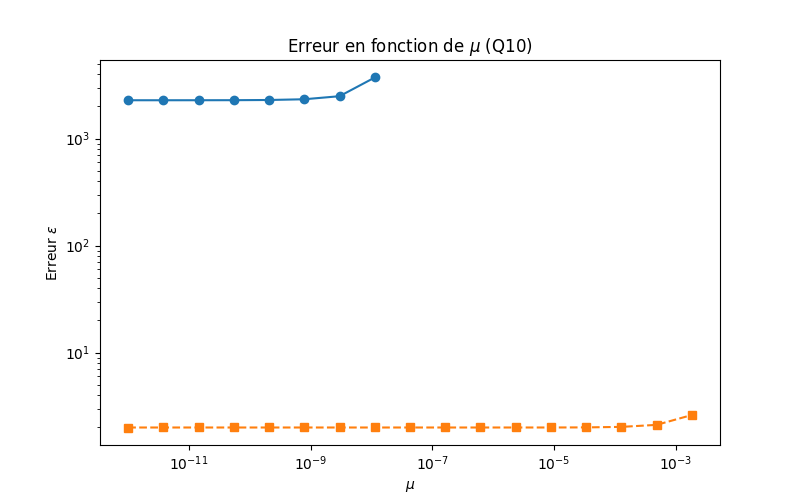
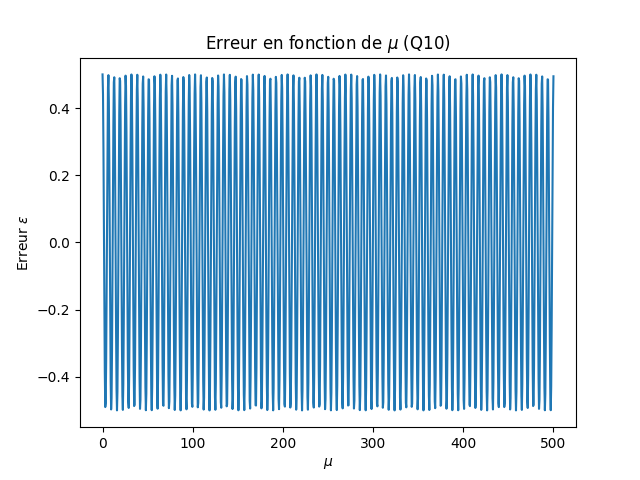
on a ecrit la resolution dans l'esapce des phases de x_inf et dx_inf (avec des conditions intitiales aléatoire) + on trace pour mu =0.1

diff --git a/td3/limite.py b/td3/limite.py
@@ -1,0 +1,59 @@
+import matplotlib.pyplot as plt
+import numpy as np
+from oscillateur_van_pol import analytical
+from adams_moulton import am2  
+from oscillateur_van_pol import f
+from adams_moulton import energie_mecanique
+
+
+'''
+on regarde la résolutino avec la méthode de adams_moulton 
+attention on a pris comme condition initiale
+X0 = [[0,1/2]]
+
+'''
+
+
+mu =0.1
+#X0 = np.array([0,1/2])
+
+X0 = []
+for i in range(30):
+    x0 = np.random.uniform(-3, 3)    
+    dx0 = np.random.uniform(-4, 4)    
+    X0.append(np.array([dx0, x0]))
+
+# time parameters
+t_start = 0
+t_end = 100
+N = 1000
+# time array
+times = np.linspace(t_start,t_end,num = N)
+
+tol = 1e-10
+max_iter = 10
+
+#x = am2(f,X0,times,tol,max_iter)[:, 1]
+#dx = am2(f,X0,times,tol,max_iter)[:, 0]
+
+X = np.zeros((len(times), len(X0)))
+lambda t, X: f(t, X, mu=0.1)
+
+plt.figure(figsize=(7, 7))
+
+for i in range(30):
+
+    x_inf = am2(f,X0[i],times,tol,max_iter)[-1, 1] #-1 comme ca on prend le point à t_inf 
+    dx_inf = am2(f,X0[i],times,tol,max_iter)[-1, 0]
+    
+
+    plt.scatter(x_inf, dx_inf, color='blue')
+
+#plt.plot(times, x , label = 'x')
+#plt.plot(times,energie_mecanique(x,dx),label ='energie mécanique')
+plt.xlabel(r'x_inf')
+plt.ylabel(r'dx_inf(t)')
+plt.title(r'graphe de x_inf)')
+plt.savefig('graphe de x_inf dans l espace des phases.png')
+plt.legend()
+plt.show()
